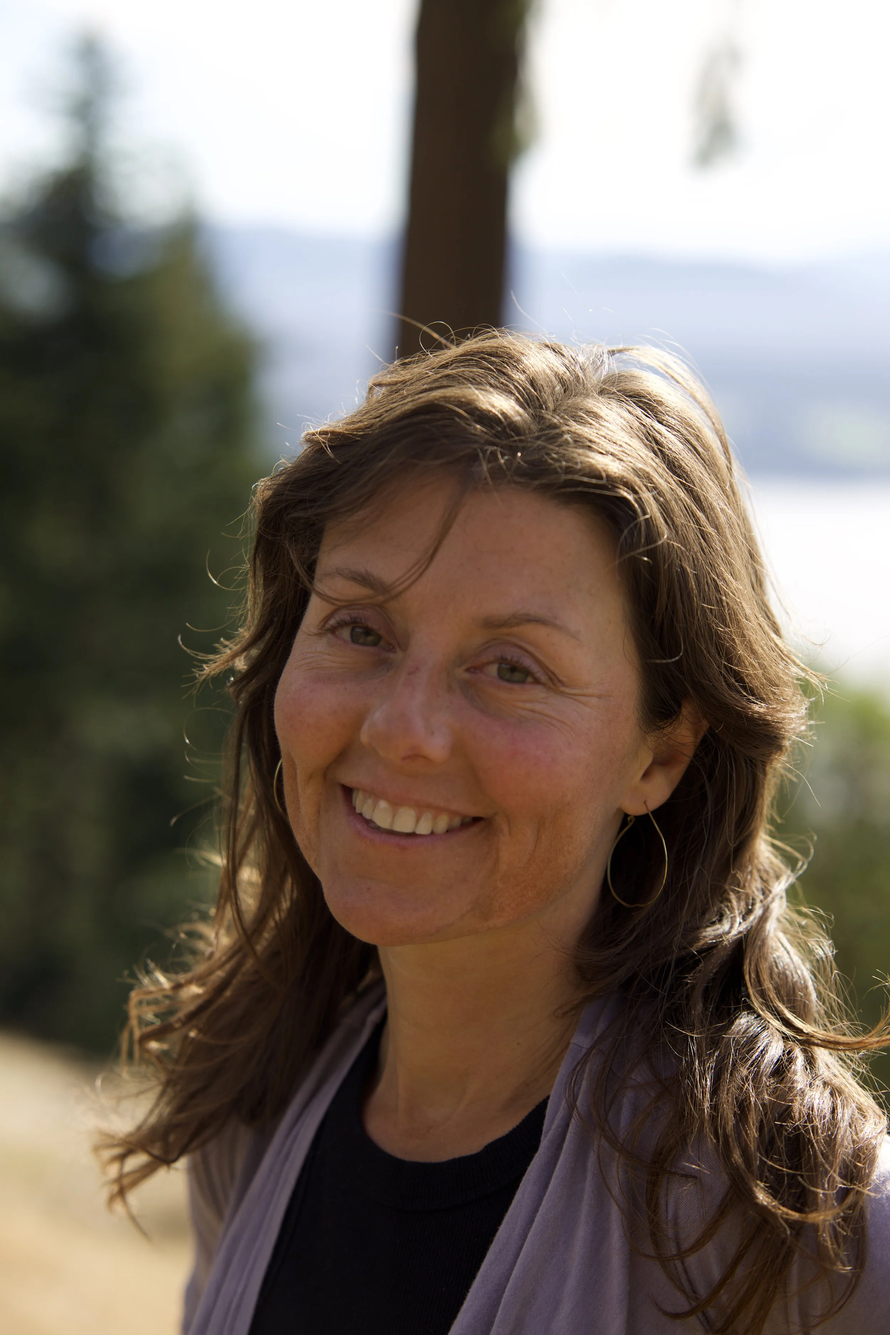
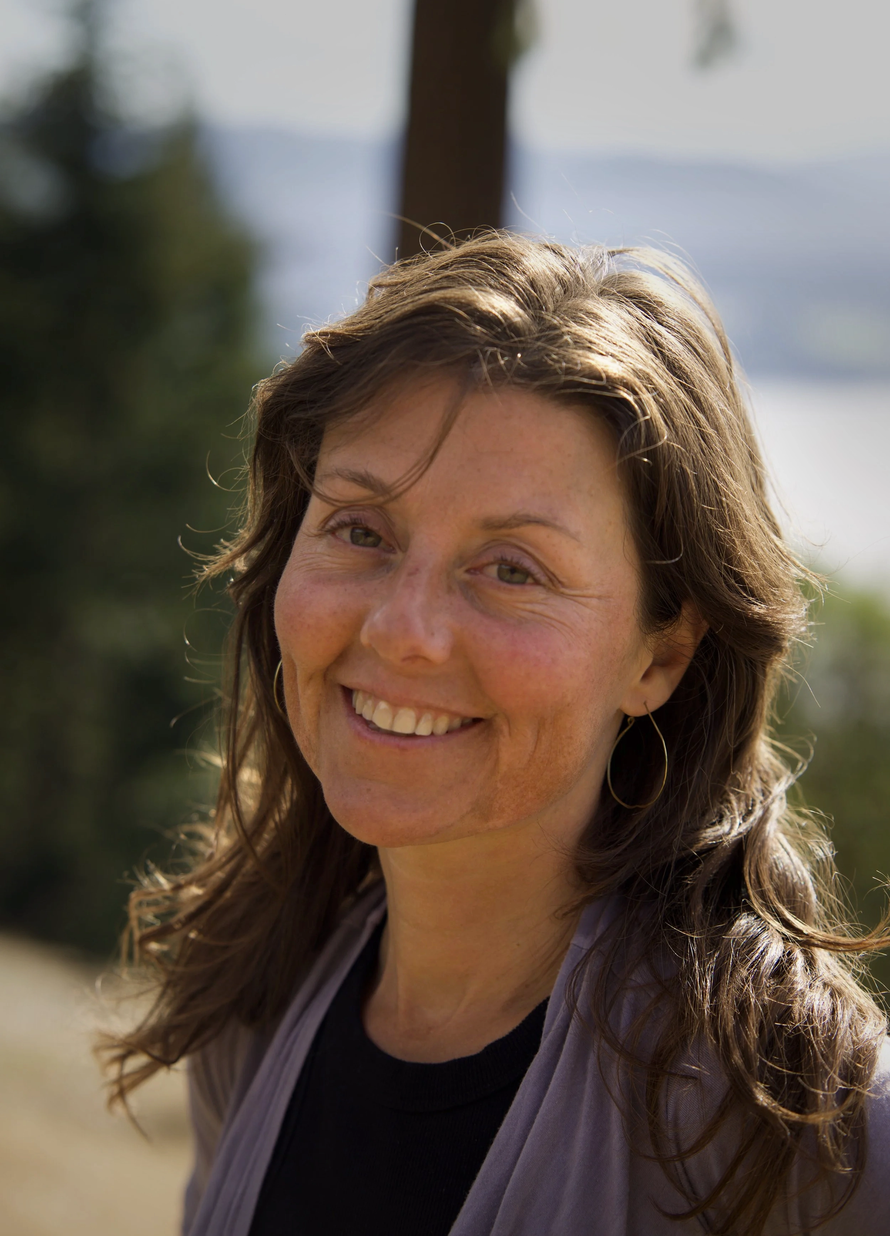
More parallax range (20%-80%), updated Selena profile image

diff --git a/selena/index.html b/selena/index.html
@@ -218,8 +218,8 @@
         var winH = window.innerHeight;
         if (rect.bottom > 0 && rect.top < winH) {
           var progress = (winH - rect.top) / (winH + rect.height);
-          // Map 0-1 progress to 35%-65% (centered on 50%)
-          var offset = 35 + (progress * 30);
+          // Map 0-1 progress to 20%-80% (centered on 50%, wide range)
+          var offset = 20 + (progress * 60);
           el.style.backgroundPositionY = offset + '%';
         }
       });
